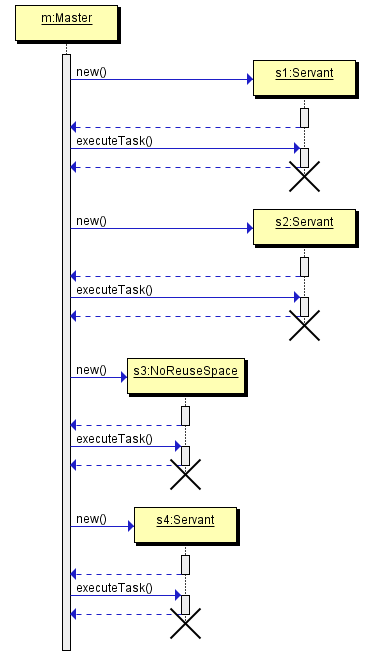
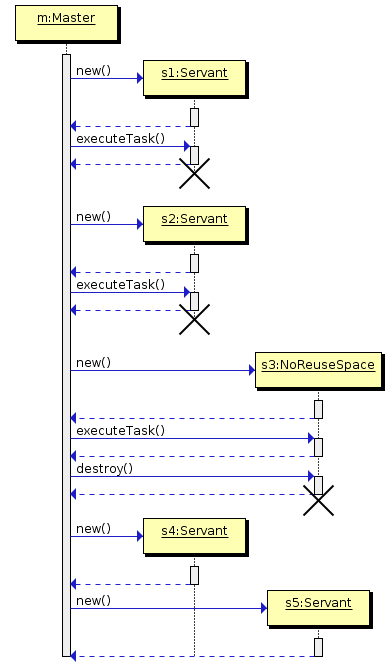
added explanation to tutorial section "Reusing space"

diff --git a/QSD/src/main/resources/resource/tutorial.html b/QSD/src/main/resources/resource/tutorial.html
@@ -390,15 +390,26 @@ s1:&gt;m.done()&amp;</pre>
   <h2>
     <a name="reuse_space">Reusing space</a>
   </h2>
-
+  
+  <p>When an object is <a href="#destructor">destroyed</a> or removed
+  <a href="#automatic">automatically</a>, the column of the screen where
+  its lifeline was displayed is no longer used, so it might be reused
+  by objects that are <a href="#constructor">created</a> thereafter.
+  This has to be enabled by the diagram configuration: Misc/Reuse space of destroyed objects.
+  </p>
+  
+  <p>
+  Objects marked with the [f] (fixed) flag will have their very own column when they are created.
+  </p>
+  
   <div class="sd">
     <img name="reuse_space" src="sd/reuse_space.png"/>
     <pre>m:Master
-/s1:Servant[x]
+/s1:Servant[xf]
 /s2:Servant[x]
-/s3:NoReuseSpace[xf]
-/s4:Servant[x]
-
+/s3:NoReuseSpace[f]
+/s4:Servant
+/s5:Servant
 
 m:s1.new()
 m:s1.executeTask()
@@ -406,8 +417,9 @@ m:s2.new()
 m:s2.executeTask()
 m:s3.new()
 m:s3.executeTask()
+m:s3.destroy()
 m:s4.new()
-m:s4.executeTask()
+m:s5.new()
 </pre>
   </div>
   
